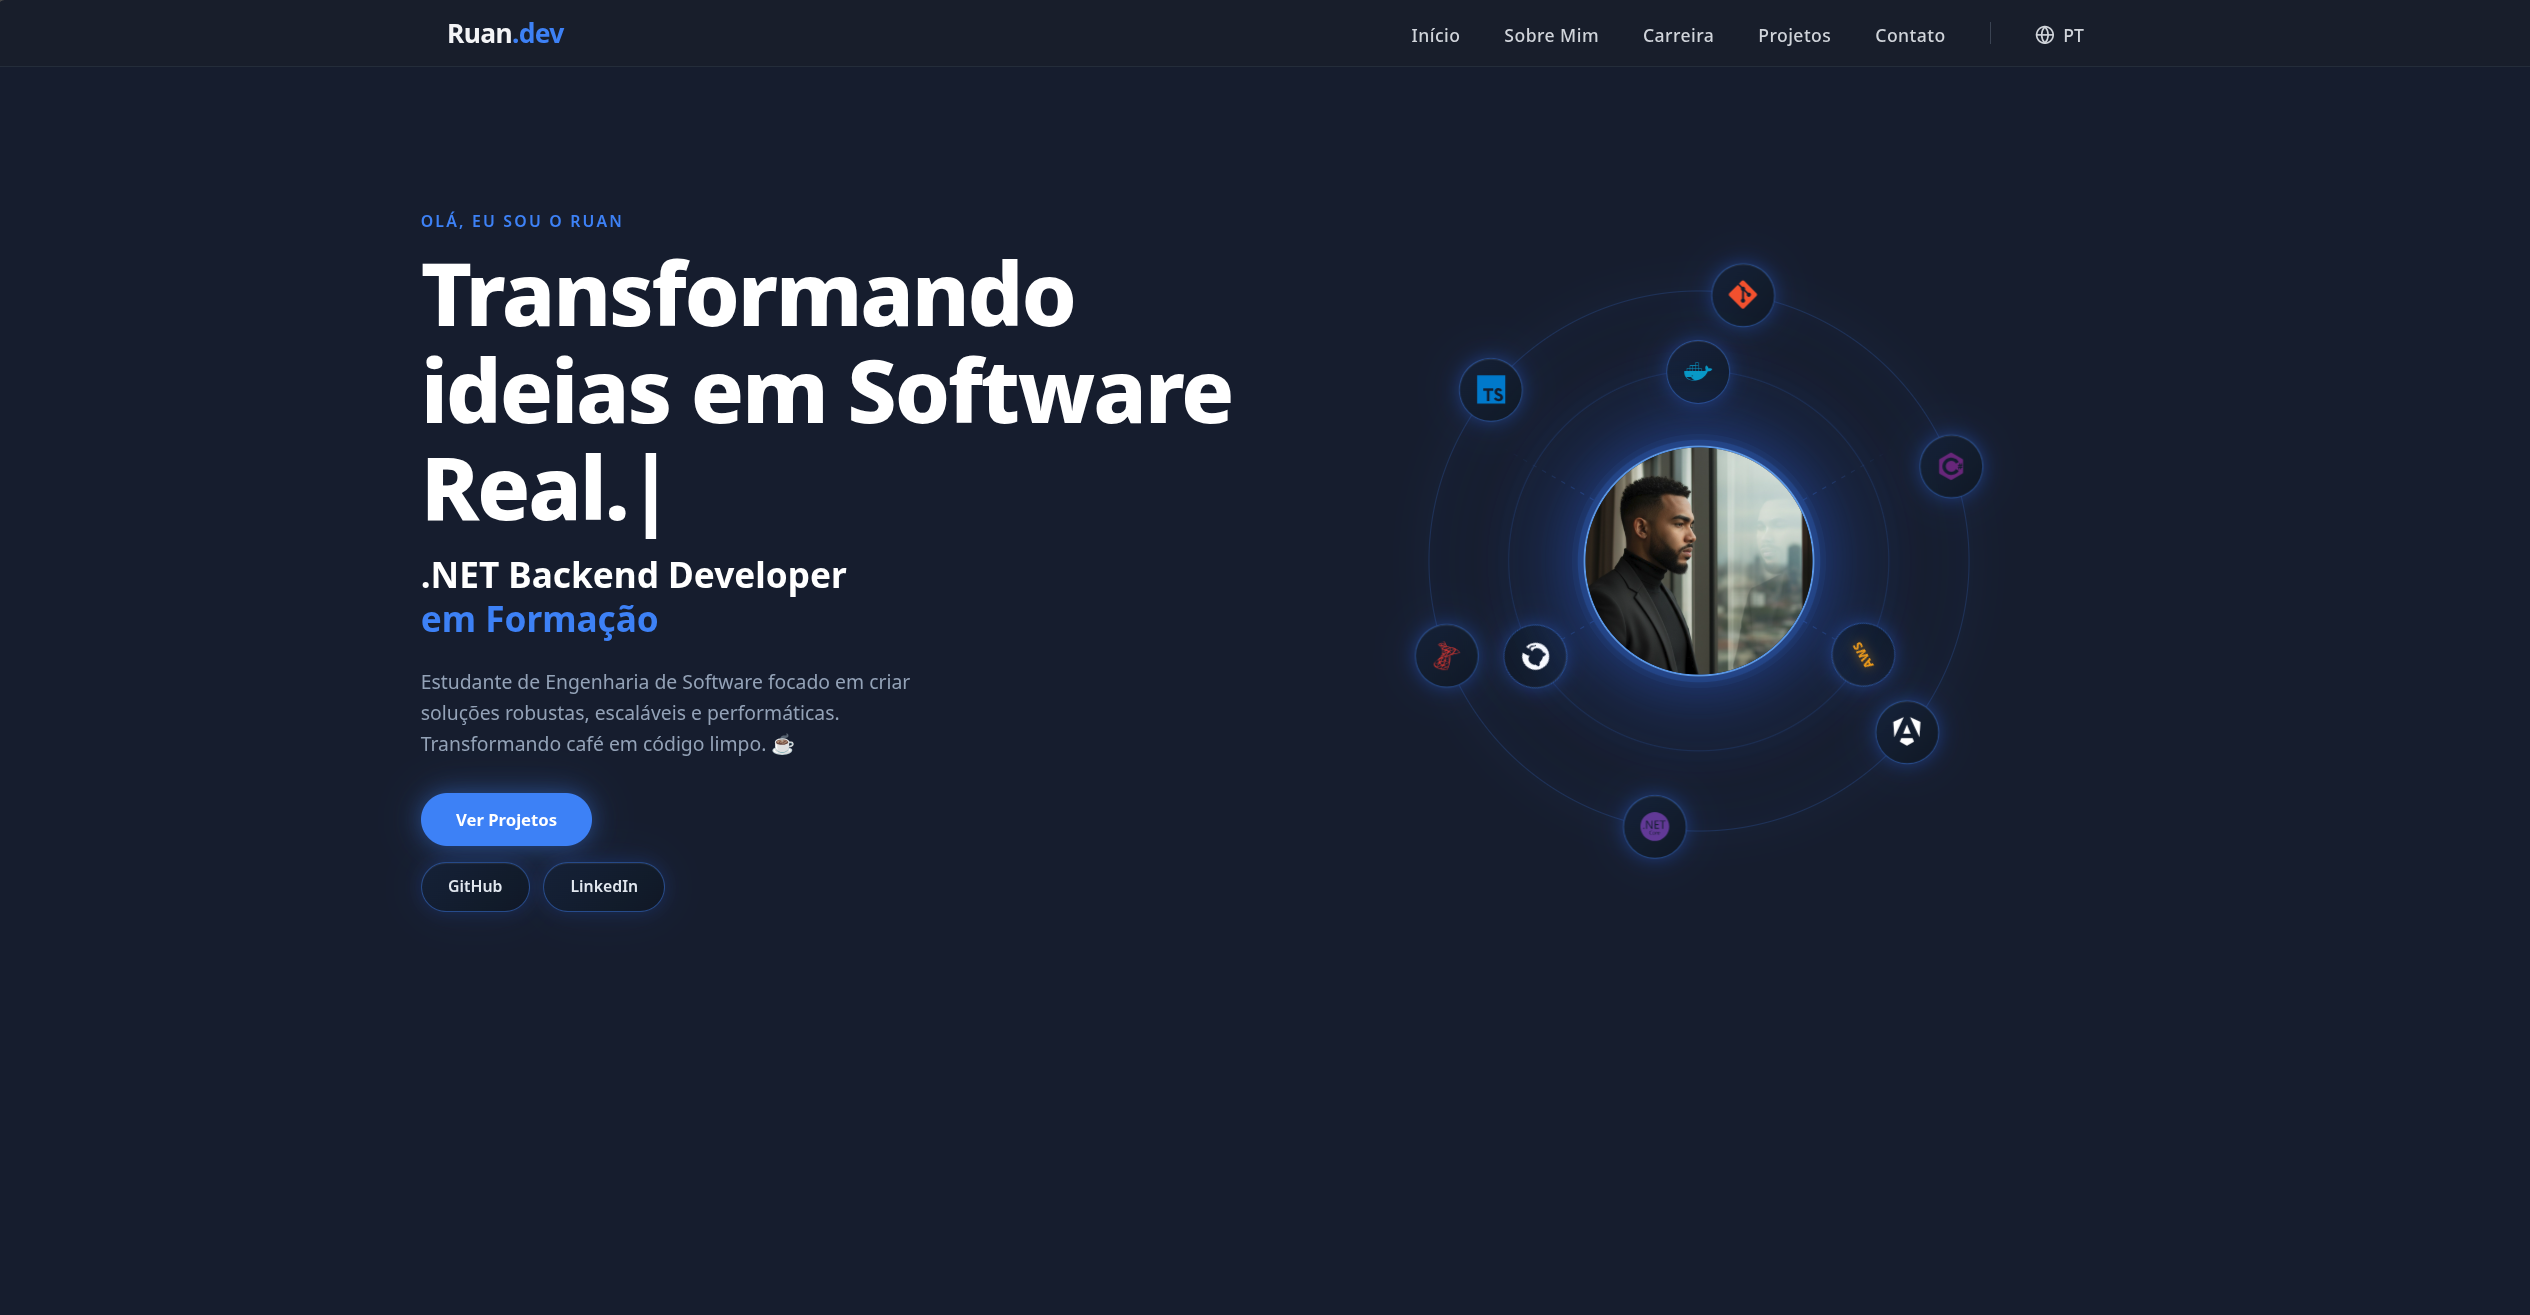
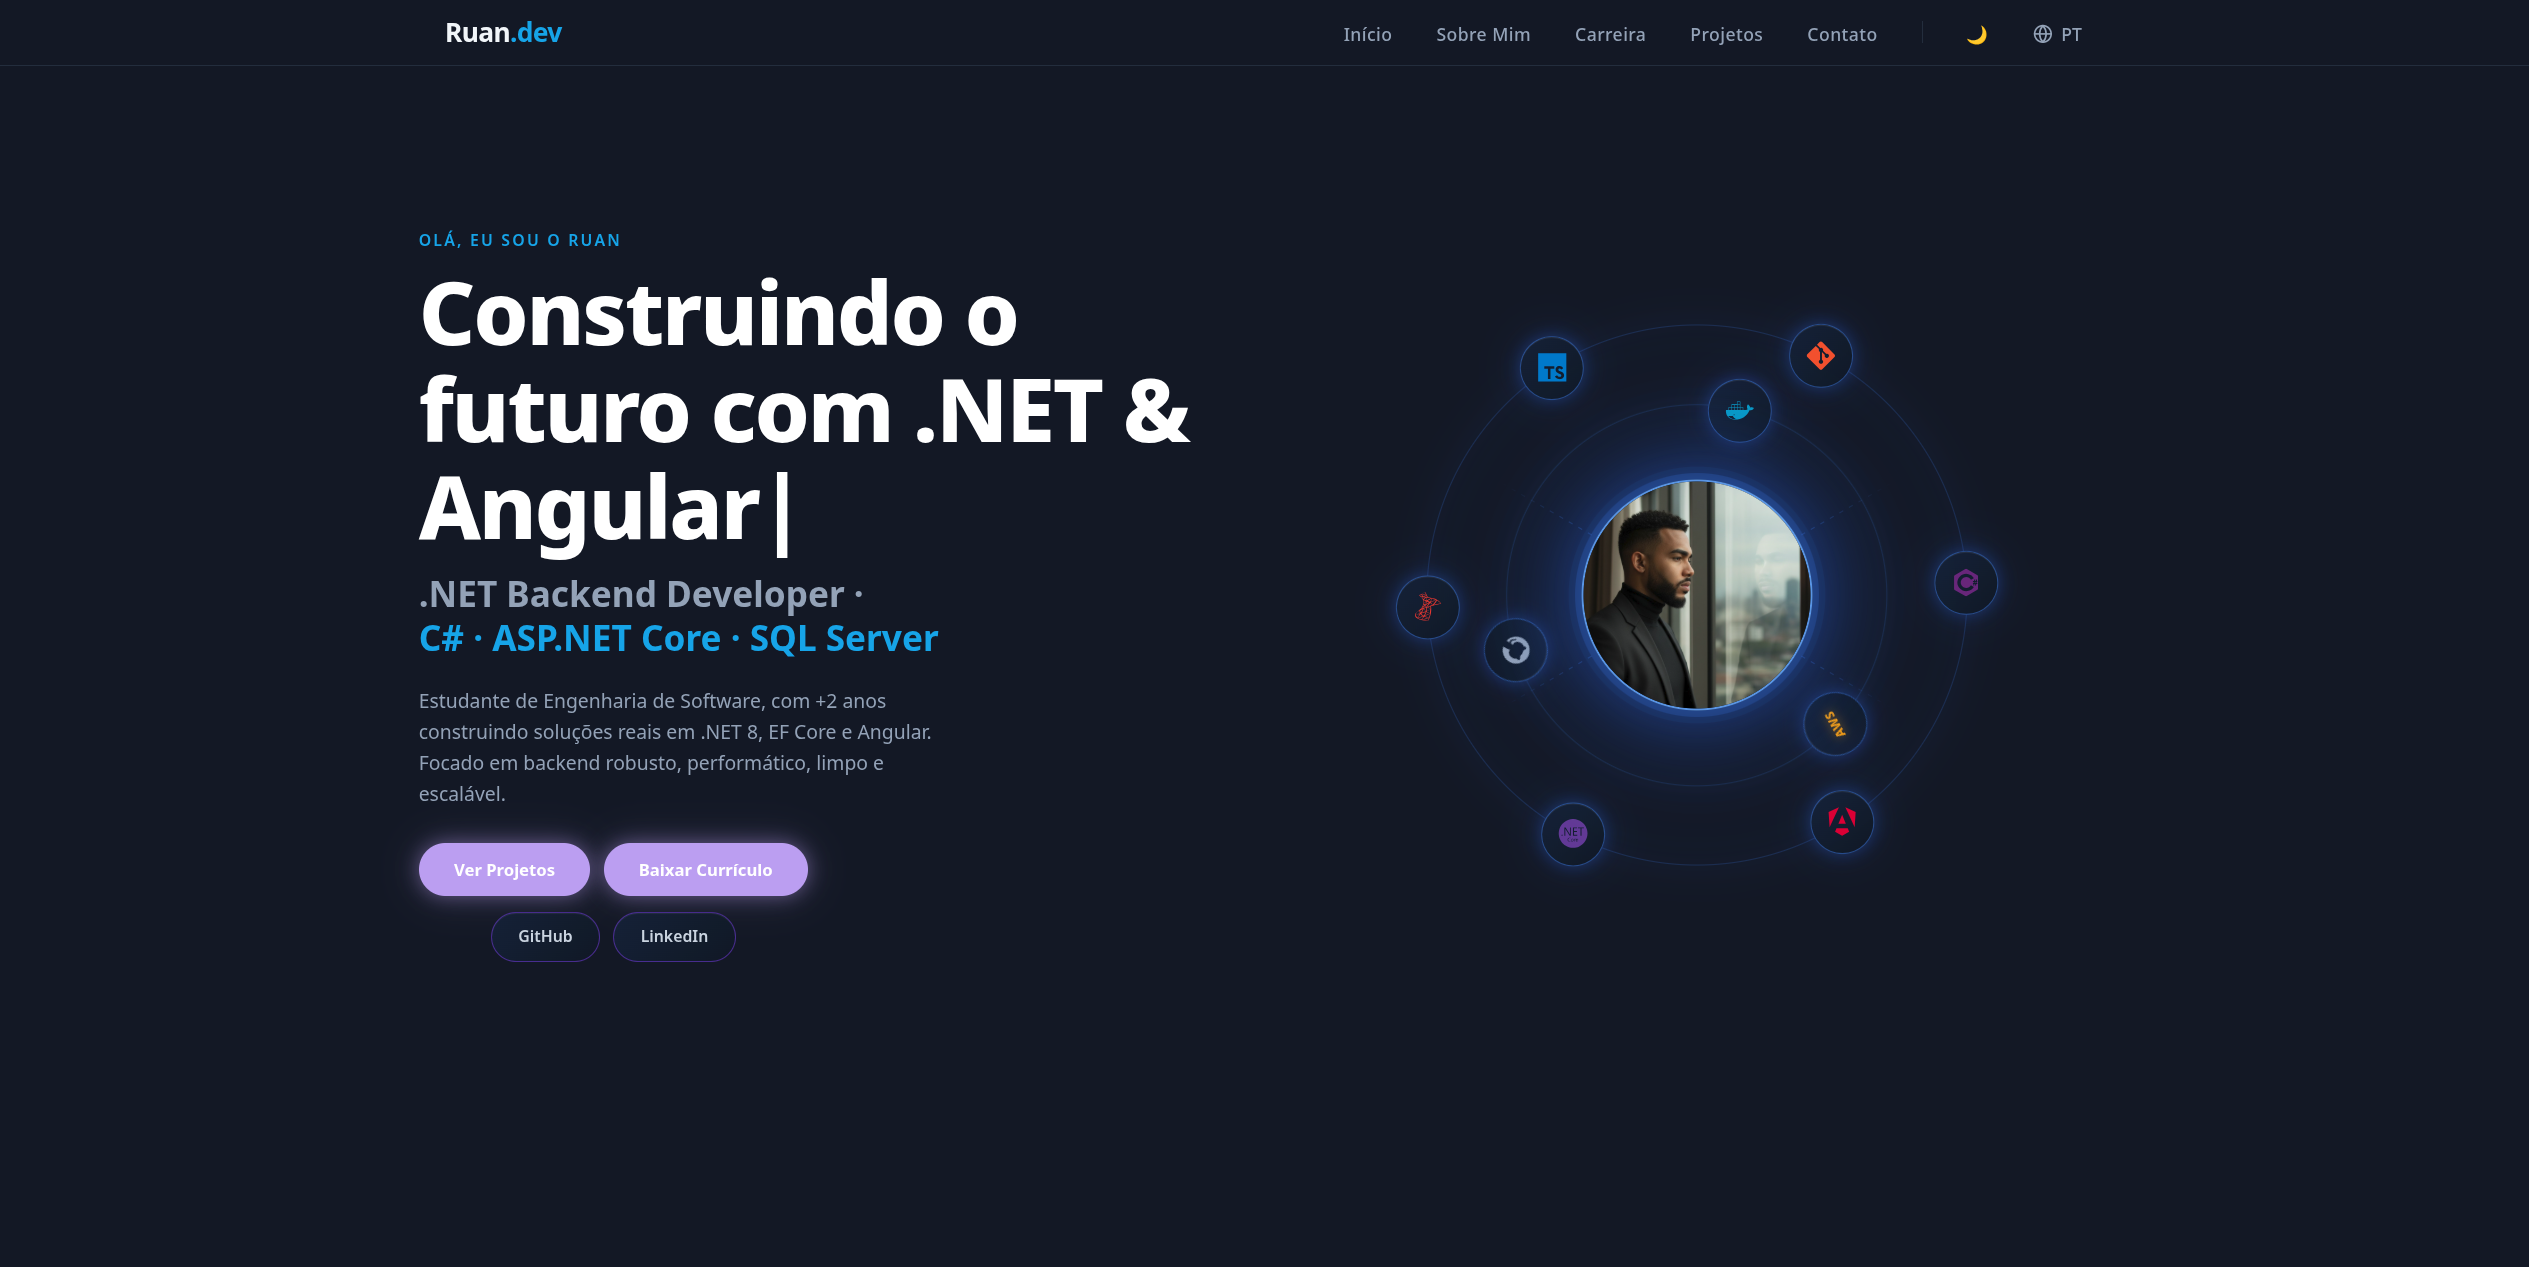
feat: add new photo to assets

diff --git a/src/app/services/projeto.service.ts b/src/app/services/projeto.service.ts
@@ -32,7 +32,7 @@ export class ProjetoService {
       urlImagem: 'assets/Portfolio.png',
       urlGithub: 'https://github.com/ruanalexandreS/Portfolio',
       urlDeploy: 'https://portfolio-ruan-alexandre-s.vercel.app/',
-      tecnologias: ['Angular', 'TypeScript', 'Tailwind CSS', 'EmailJS', 'Vercel']
+      tecnologias: ['Angular 21', 'TypeScript', 'TailwindCSS', 'RxJS', 'Signals', 'EmailJS', 'Vercel']
     },
     {
       id: 2,
@@ -46,7 +46,7 @@ export class ProjetoService {
       urlImagem: 'assets/NotaFiscal.png',
       urlGithub: 'https://github.com/ruanalexandreS/Korp_teste_RuanCampos',
       urlDeploy: 'https://korp-teste-ruan-campos.vercel.app/products',
-      tecnologias: ['C#', '.NET 8', 'Angular', 'EF Core', 'SQL Server', 'Microsserviços']
+      tecnologias: ['C#', '.NET 8', 'ASP.NET Core', 'Angular', 'EF Core', 'SQL Server', 'IHttpClientFactory', 'Microsserviços']
     }
   ];
 
